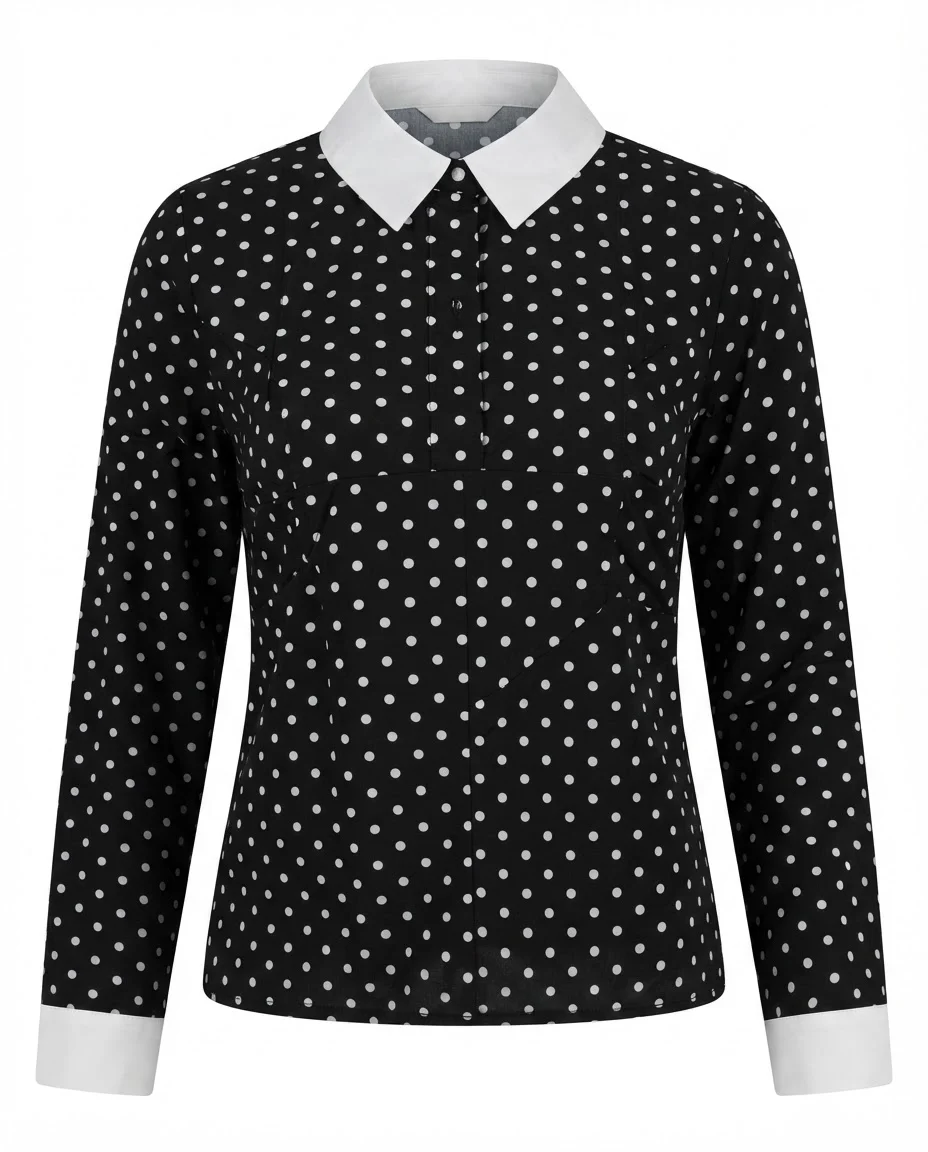
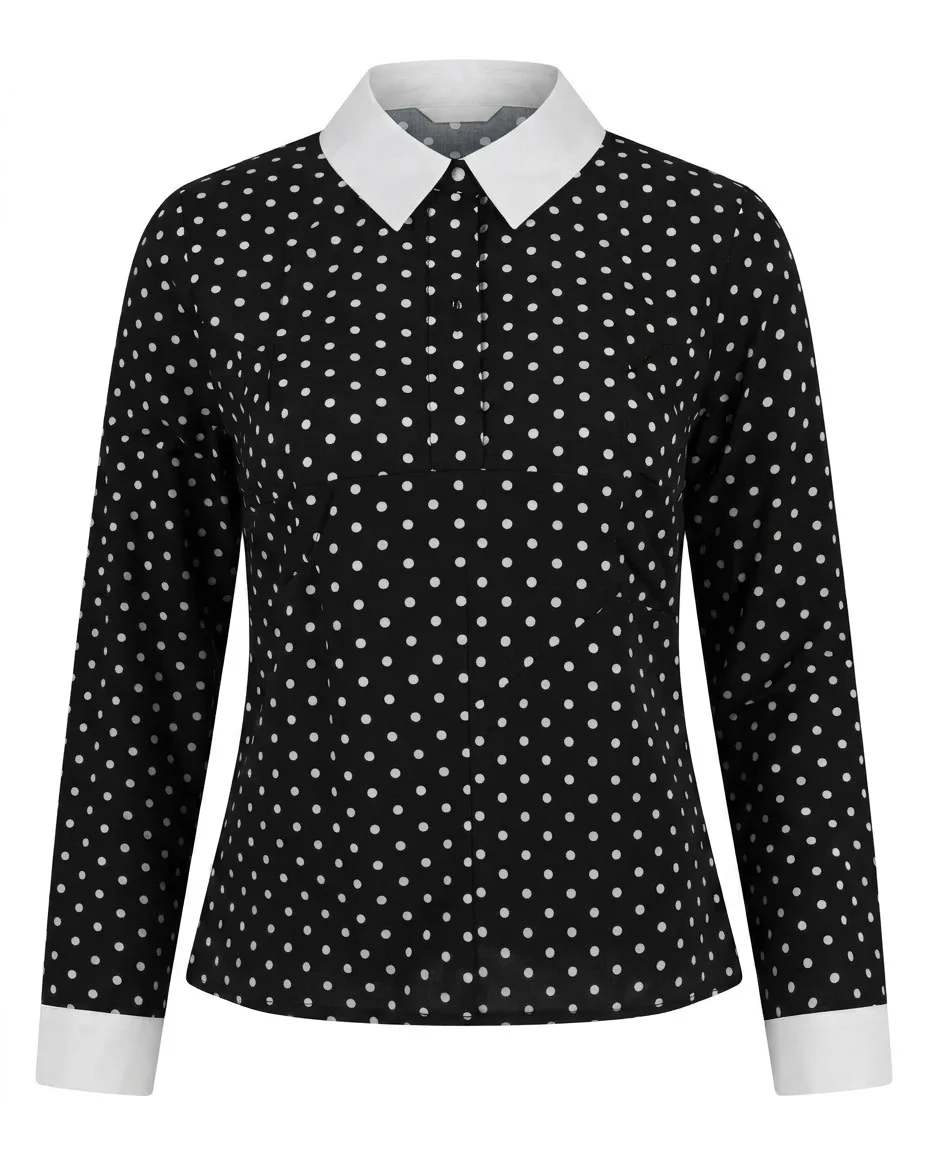
Portadas modelo pedreria hombre y ninos + reemplazo foto pepitas

diff --git a/src/lib/mock-data.ts b/src/lib/mock-data.ts
@@ -1742,7 +1742,8 @@ export const products: Product[] = [
     originalPrice: 57900,
     wholesalePrice: 40000,
     wholesaleMinQty: 12,
-    image: "/products/hombre/Camiseta Pedreria Hombre Oversize/dragon-ball-z - Camiseta Pedreria Hombre Oversize.webp",
+    image: "/products/hombre/Camiseta Pedreria Hombre Oversize/dragon-ball-z - Camiseta Pedreria Hombre Oversize modelo.webp",
+    frontImage: "/products/hombre/Camiseta Pedreria Hombre Oversize/dragon-ball-z - Camiseta Pedreria Hombre Oversize.webp",
     sizes: SIZES,
     rating: 4.8,
     reviewCount: 22,
@@ -1760,7 +1761,8 @@ export const products: Product[] = [
     originalPrice: 57900,
     wholesalePrice: 40000,
     wholesaleMinQty: 12,
-    image: "/products/hombre/Camiseta Pedreria Hombre Oversize/lilo-stitch - Camiseta Pedreria Hombre Oversize.webp",
+    image: "/products/hombre/Camiseta Pedreria Hombre Oversize/lilo-stitch - Camiseta Pedreria Hombre Oversize modelo.webp",
+    frontImage: "/products/hombre/Camiseta Pedreria Hombre Oversize/lilo-stitch - Camiseta Pedreria Hombre Oversize.webp",
     sizes: SIZES,
     rating: 4.9,
     reviewCount: 35,
@@ -1778,7 +1780,8 @@ export const products: Product[] = [
     originalPrice: 57900,
     wholesalePrice: 40000,
     wholesaleMinQty: 12,
-    image: "/products/hombre/Camiseta Pedreria Hombre Oversize/batman - Camiseta Pedreria Hombre Oversize.webp",
+    image: "/products/hombre/Camiseta Pedreria Hombre Oversize/batman - Camiseta Pedreria Hombre Oversize modelo.webp",
+    frontImage: "/products/hombre/Camiseta Pedreria Hombre Oversize/batman - Camiseta Pedreria Hombre Oversize.webp",
     sizes: SIZES,
     rating: 4.7,
     reviewCount: 18,
@@ -1796,7 +1799,8 @@ export const products: Product[] = [
     originalPrice: 56900,
     wholesalePrice: 39000,
     wholesaleMinQty: 12,
-    image: "/products/hombre/Camiseta Pedreria Hombre Oversize/muttik-skater - Camiseta Pedreria Hombre Oversize.webp",
+    image: "/products/hombre/Camiseta Pedreria Hombre Oversize/muttik-skater - Camiseta Pedreria Hombre Oversize modelo.webp",
+    frontImage: "/products/hombre/Camiseta Pedreria Hombre Oversize/muttik-skater - Camiseta Pedreria Hombre Oversize.webp",
     sizes: SIZES,
     rating: 4.6,
     reviewCount: 14,
@@ -1814,7 +1818,8 @@ export const products: Product[] = [
     originalPrice: 57900,
     wholesalePrice: 40000,
     wholesaleMinQty: 12,
-    image: "/products/hombre/Camiseta Pedreria Hombre Oversize/spongebob-crazy-beige - Camiseta Pedreria Hombre Oversize.webp",
+    image: "/products/hombre/Camiseta Pedreria Hombre Oversize/spongebob-crazy-beige - Camiseta Pedreria Hombre Oversize modelo.webp",
+    frontImage: "/products/hombre/Camiseta Pedreria Hombre Oversize/spongebob-crazy-beige - Camiseta Pedreria Hombre Oversize.webp",
     sizes: SIZES,
     rating: 4.8,
     reviewCount: 27,
@@ -1889,7 +1894,8 @@ export const products: Product[] = [
     originalPrice: 59900,
     wholesalePrice: 42000,
     wholesaleMinQty: 12,
-    image: "/products/hombre/Camiseta Pedreria Hombre Oversize/mickey-friends - Camiseta Pedreria Hombre Oversize.webp",
+    image: "/products/hombre/Camiseta Pedreria Hombre Oversize/mickey-friends - Camiseta Pedreria Hombre Oversize modelo.webp",
+    frontImage: "/products/hombre/Camiseta Pedreria Hombre Oversize/mickey-friends - Camiseta Pedreria Hombre Oversize.webp",
     backImage: "/products/hombre/Camiseta Pedreria Hombre Oversize/mickey-friends-back - Camiseta Pedreria Hombre Oversize.webp",
     sizes: SIZES,
     rating: 4.9,
@@ -3551,7 +3557,8 @@ export const products: Product[] = [
     originalPrice: 52900,
     wholesalePrice: 36000,
     wholesaleMinQty: 12,
-    image: "/products/niños/camisa basica niña - stitch-comic.webp",
+    image: "/products/niños/camisa basica niña - stitch-comic modelo.webp",
+    frontImage: "/products/niños/camisa basica niña - stitch-comic.webp",
     backImage: "/products/niños/camisa basica niña - stitch-comic-back.webp",
     sizes: ["12"],
     rating: 4.8,
@@ -3569,7 +3576,8 @@ export const products: Product[] = [
     originalPrice: 52900,
     wholesalePrice: 36000,
     wholesaleMinQty: 12,
-    image: "/products/niños/camisa basica niño - mario-bros.webp",
+    image: "/products/niños/camisa basica niño - mario-bros modelo.webp",
+    frontImage: "/products/niños/camisa basica niño - mario-bros.webp",
     backImage: "/products/niños/camisa basica niño - mario-bros-back.webp",
     sizes: ["14"],
     rating: 4.8,
@@ -3587,7 +3595,8 @@ export const products: Product[] = [
     originalPrice: 52900,
     wholesalePrice: 36000,
     wholesaleMinQty: 12,
-    image: "/products/niños/camisa basica niño - lancer-evo.webp",
+    image: "/products/niños/camisa basica niño - lancer-evo modelo.webp",
+    frontImage: "/products/niños/camisa basica niño - lancer-evo.webp",
     backImage: "/products/niños/camisa basica niño - lancer-evo-back.webp",
     sizes: ["16"],
     rating: 4.7,
@@ -3605,7 +3614,8 @@ export const products: Product[] = [
     originalPrice: 52900,
     wholesalePrice: 36000,
     wholesaleMinQty: 12,
-    image: "/products/niños/camisa basica niña-minnie-daisy -.webp",
+    image: "/products/niños/camisa basica niña-minnie-daisy modelo.webp",
+    frontImage: "/products/niños/camisa basica niña-minnie-daisy -.webp",
     backImage: "/products/niños/camisa basica niña - minnie-daisy-back.webp",
     sizes: ["10"],
     rating: 4.9,
